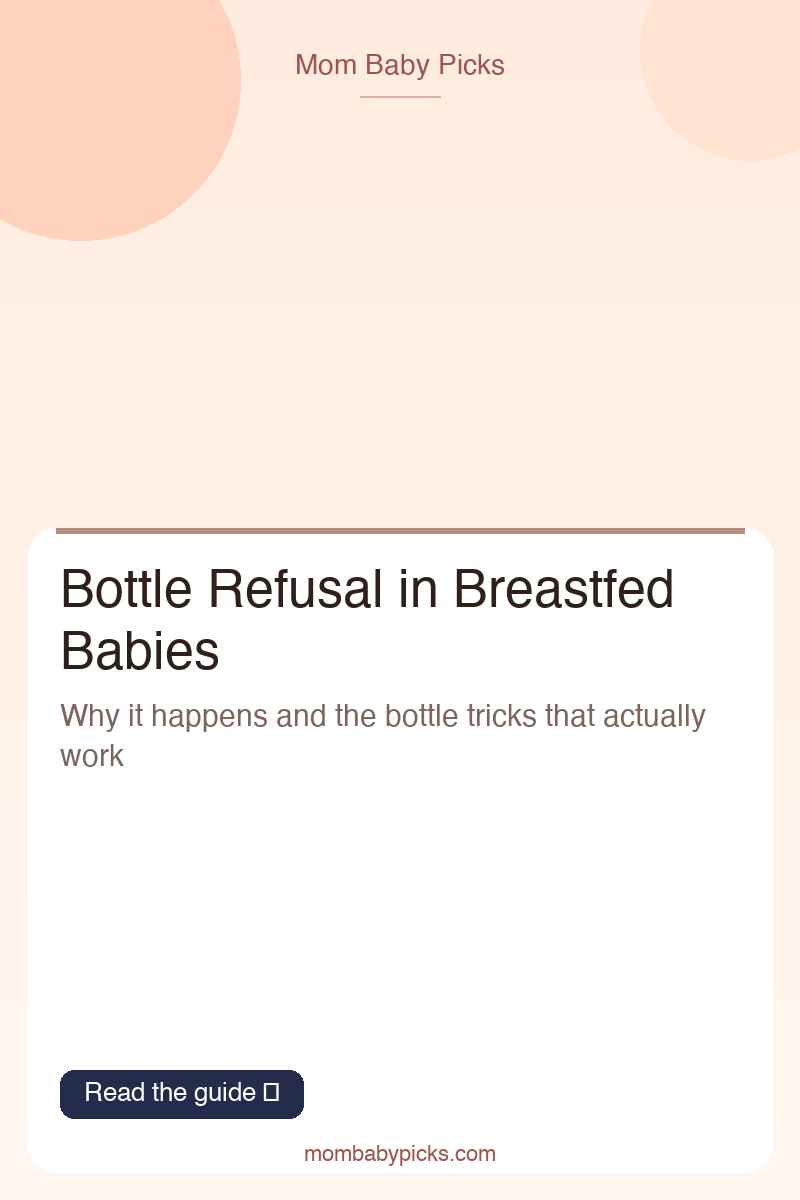
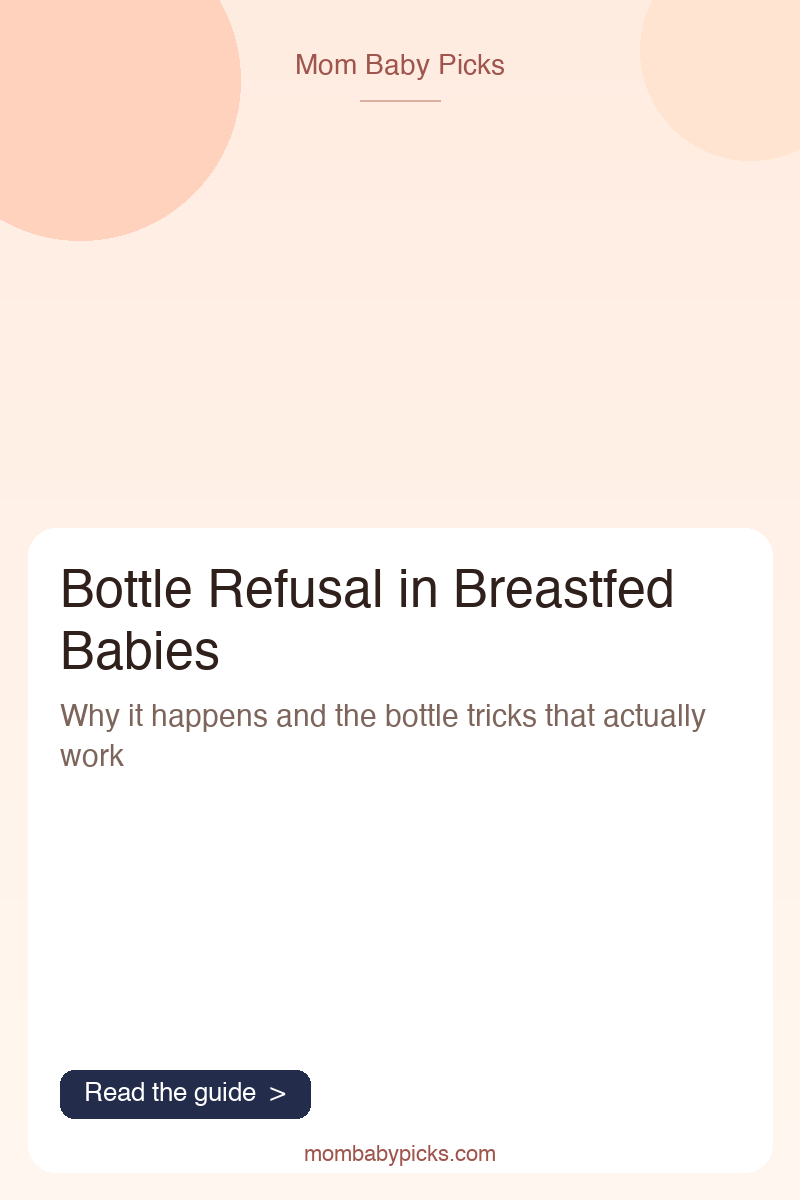
fix: regenerate pin images with corrected button text and cleanup extra files

diff --git a/scripts/generate-pins.py b/scripts/generate-pins.py
@@ -134,7 +134,7 @@ def make_pin(slug, headline, subtitle, out_path):
         sub_y += 40
 
     # "Read the guide →" button
-    btn_text = "Read the guide →"
+    btn_text = "Read the guide  >"
     btn_bb = draw.textbbox((0, 0), btn_text, font=f_btn)
     btn_w = btn_bb[2] - btn_bb[0] + 48
     btn_h = 48
